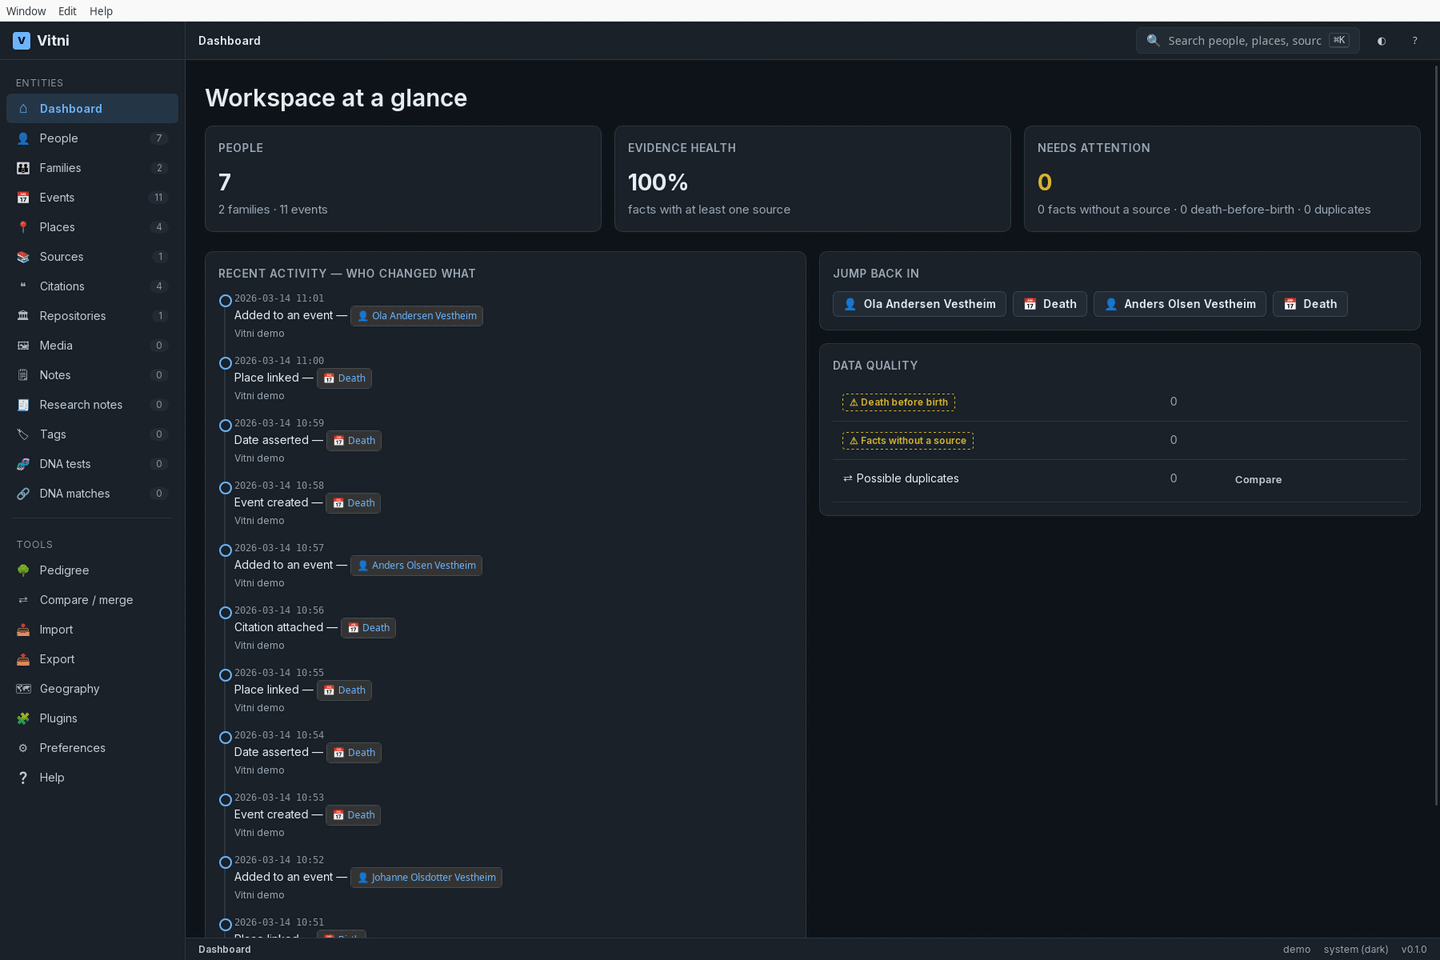
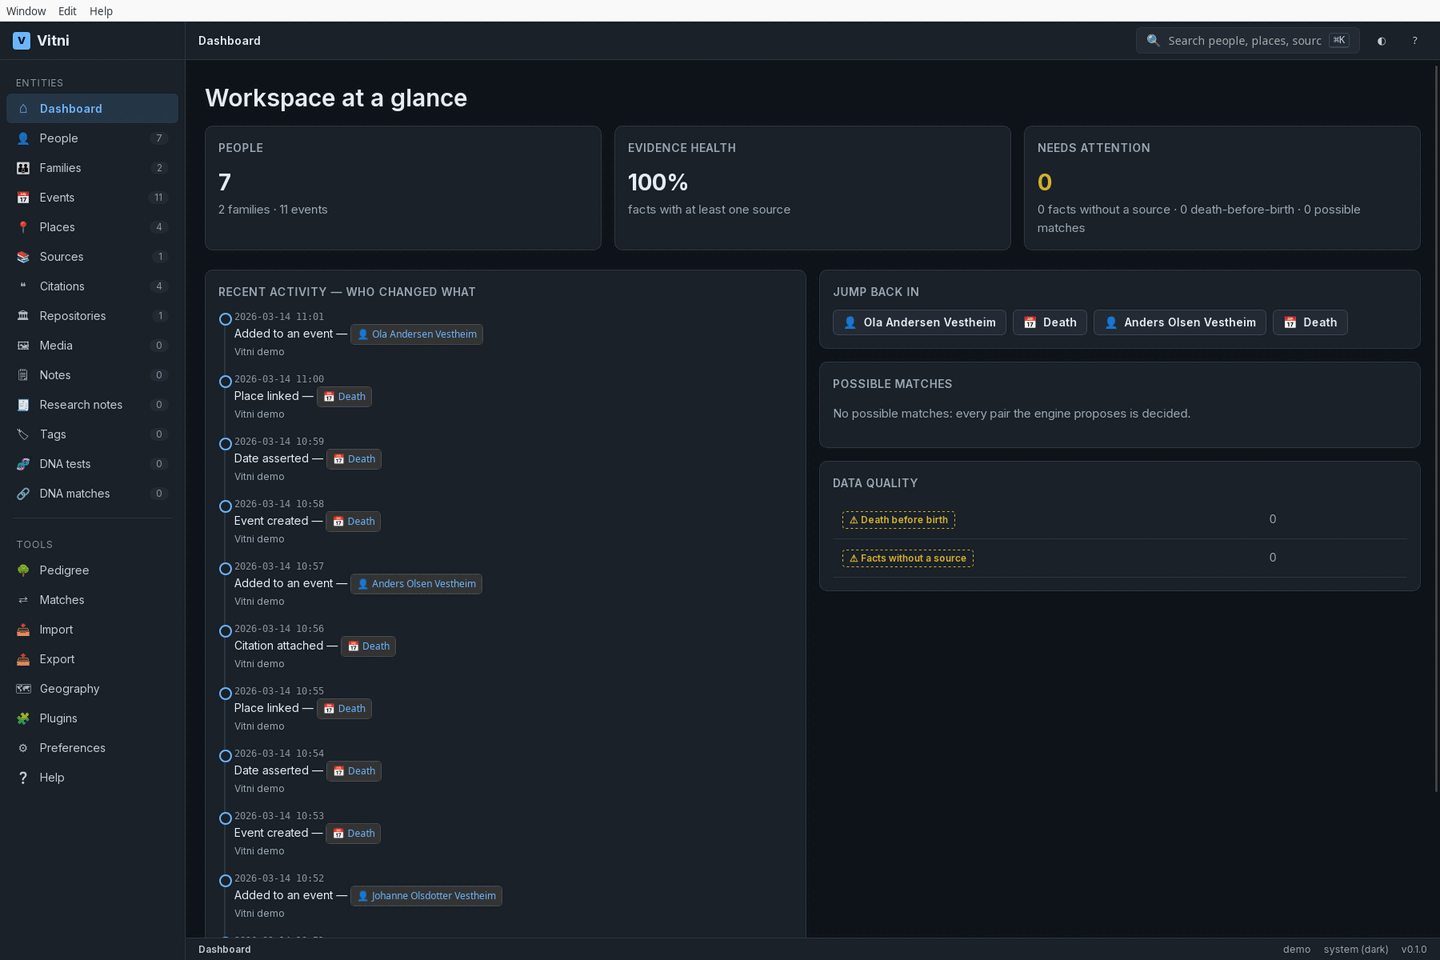
Document the possible-matches queue (#414)
The roadmap records the queue, the Matches tool, the Dashboard card and
vitni match; the data model says suggestions are computed and narrow to
one run; the backlog bullet is done. The README images show the Matches
rail entry and the Possible matches card.

diff --git a/docs/roadmap.html b/docs/roadmap.html
@@ -330,7 +330,7 @@ operator — an <code>AgentKind::Software</code> claim, audited identically to a
     <div class="tl-label">Phase 14 <small>0.10, pre-1.0</small></div>
     <div class="tl-bar spike"><span class="chip spike">next</span> &nbsp;Record matching &amp; identity
       (ADRs 0037&ndash;0041): record origins + import runs &#x2705; (#393) · resolve-by-origin &#x2705; (#394) · dataset-scoped record ids &#x2705; (#389) · tombstones &#x2705; (#395) · Fellegi&ndash;Sunter matching core + name-culture packs &#x2705; (#396) ·
-      person profile with relatives &#x2705; (#397) · family &amp; event profiles &#x2705; (#398) · place, source, citation, media, note &amp; tag profiles &#x2705; (#399) · blocking &amp; <code>find_similar</code> &#x2705; (#400) · evaluation corpus &amp; <code>match-eval</code> &#x2705; (#402) · &ldquo;not the same&rdquo; &amp; the assessment on decisions &#x2705; (#403) · duplicate check through the engine &#x2705; (#401) · persona clusters &#x2705; (#404) · event &amp; family merge &#x2705; (#405) · merge for the other kinds &#x2705; (#406) · record graphs, plan &amp; resumable commit &#x2705; (#407) · one graph per Digitalarkivet record &#x2705; (#409) · Digitalarkivet events, places &amp; households &#x2705; (#410) · shared match-compare view &#x2705; (#411) · assisted match stage &#x2705; (#412) · bulk plan &amp; review, <code>vitni import --plan</code> &#x2705; (#413) · versioned workspace backup
+      person profile with relatives &#x2705; (#397) · family &amp; event profiles &#x2705; (#398) · place, source, citation, media, note &amp; tag profiles &#x2705; (#399) · blocking &amp; <code>find_similar</code> &#x2705; (#400) · evaluation corpus &amp; <code>match-eval</code> &#x2705; (#402) · &ldquo;not the same&rdquo; &amp; the assessment on decisions &#x2705; (#403) · duplicate check through the engine &#x2705; (#401) · persona clusters &#x2705; (#404) · event &amp; family merge &#x2705; (#405) · merge for the other kinds &#x2705; (#406) · record graphs, plan &amp; resumable commit &#x2705; (#407) · one graph per Digitalarkivet record &#x2705; (#409) · Digitalarkivet events, places &amp; households &#x2705; (#410) · shared match-compare view &#x2705; (#411) · assisted match stage &#x2705; (#412) · bulk plan &amp; review, <code>vitni import --plan</code> &#x2705; (#413) · possible-matches queue, <code>vitni match</code> &#x2705; (#414) · versioned workspace backup
       &#x2705; (#391)</div>
   </div>
   <div class="tl-row">

diff --git a/docs/mockups/search-palette.html b/docs/mockups/search-palette.html
@@ -102,7 +102,7 @@
           </div>
           <div class="p-row" role="option" id="palette-opt-cmd-2" aria-selected="false">
             <span style="width:24px;text-align:center">⇄</span>
-            <span>Find duplicates</span>
+            <span>Review possible matches</span>
             <span class="p-kind">Command</span>
           </div>
           <div class="p-row" role="option" id="palette-opt-cmd-3" aria-selected="false">

diff --git a/docs/data-model.md b/docs/data-model.md
@@ -476,7 +476,9 @@ Boundary notes:
   conclusion person references the personas as evidence. **Both streams are retained** — the merge
   is non-destructive, exactly as FamilySearch/Geni require but as audit-by-construction. The opposite
   conclusion — two records are *different* individuals — is a `PersonsDistinguished` event of the same
-  shape, so the pair is never proposed again (ADR 0039 §1). Either decision lives on one person's
+  shape, so the pair is never proposed again (ADR 0039 §1). Suggestions themselves are never stored: the review
+  queue — the Matches tool, `vitni match list` — is computed from the current records minus every
+  decided pair, and narrows to the records one import run created (ADR 0039 §3). Either decision lives on one person's
   stream and is undone by retracting it. Events and families carry the same pair —
   `EventsMerged` / `EventsDistinguished` and `FamiliesMerged` / `FamiliesDistinguished` — for two
   records of one marriage or one household — and so do places, sources, citations, repositories,
@@ -729,7 +731,7 @@ around evidence and provenance.
      pair before committing (`ImportReview`, ADR 0040 §4): *Same* merges a person, written as its own
      persona, into the candidate (`PersonsMerged`) and links any other kind to it; *Not the same*
      records a `<Kind>sDistinguished` and asks about the next candidate; *Decide later* writes it as new
-     with the pairs left for the review queue. A bulk import adds two bulk answers (§3): *Same* for every
+     with the pairs left for the review queue, listed under the run. A bulk import adds two bulk answers (§3): *Same* for every
      open pair of the current kind whose candidate is Probable, each decision carrying its own pair's
      assessment, and *Decide the rest later*. The merges and distinctions are the run's human
      operator's;

diff --git a/docs/issues.md b/docs/issues.md
@@ -476,7 +476,7 @@ does.
   candidate pair (about 86 per person on the bench's name pools, rising with the workspace) and holds
   every pair's `MatchAssessment`; at 100k persons one scan took 452 s on one core before it was spread
   over the cores, and its pairs run to gigabytes. The Dashboard's data-quality card runs it for
-  every matchable kind and the Merge screen for persons, on every show. *Shape:* keep the pairs as a
+  every matchable kind and the Matches tool for every decidable kind, on every show. *Shape:* keep the pairs as a
   projection refreshed from the dirty records like `match_keys`, or keep only the pair ids and score on
   display. *Exit:* the Dashboard opens a 100k-person workspace in under a
   second.
@@ -531,11 +531,6 @@ does.
   only an empty single-valued field and adds a list value not already recorded, with the origin.
   *Exit:* deciding *Same* on a stored source without an author adds the incoming author and leaves its
   title unchanged.
-- **Possible-matches review queue** — ADR 0039 §3. The Merge tool becomes *Matches*: the computed queue
-  across kinds, filtered by run, kind and band, with a Dashboard card. CLI:
-  `vitni match list|show|same|distinct`. The mockups are updated. *Needs:* the duplicate check and the
-  compare view. *Exit:* deferred pairs from one run are listed under that run and emptied by deciding
-  them. — #414
 - **Similar-record hint on manual entry** — ADR 0038 §8. Creating a record, or adding a relative
   through a picker, warns *possibly the same as I0042 (87%)* and offers *Use existing* / *Compare*,
   never blocking. Pickers rank by similarity, and every record screen gets *Find similar*. The CLI

diff --git a/docs/roadmap.md b/docs/roadmap.md
@@ -747,6 +747,13 @@ as the same*, each pair recorded with its own assessment, and *Decide the rest l
 --plan` prints the plan (text or `--json`) and writes nothing, a re-import of an unchanged file planning
 every record unchanged; on a terminal the CLI reviews each pair, and off one, or with `--defer-matches`,
 leaves them for later.
+✅ Possible-matches review queue (ADR 0039 §3, #414): `vitni_app::match_queue` computes every undecided
+pair of every kind but tags, filtered by kind, band and the import run that created a record of the
+pair, so the pairs an import left for later are listed under its run; `decide_match` merges or
+distinguishes a pair of any kind. The Merge tool is now *Matches*: the queue under run, kind and band
+filters, any kind's pair decided in the shared compare view. The Dashboard's *Possible matches* card
+counts the pairs per kind, lists the strongest and opens the tool. `vitni match list` (`--run`, `--kind`,
+`--band`, `--json`), `show`, `same` and `distinct` do the same at the command line.
 
 ## Risk register
 
